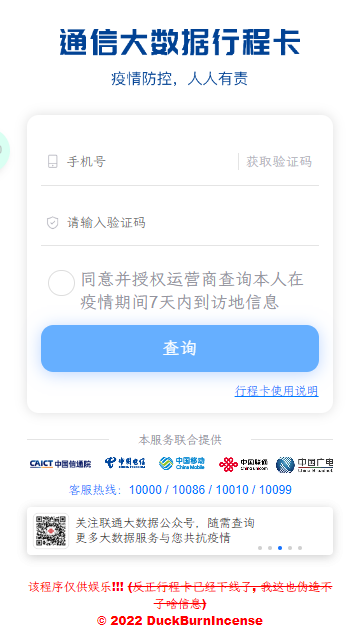
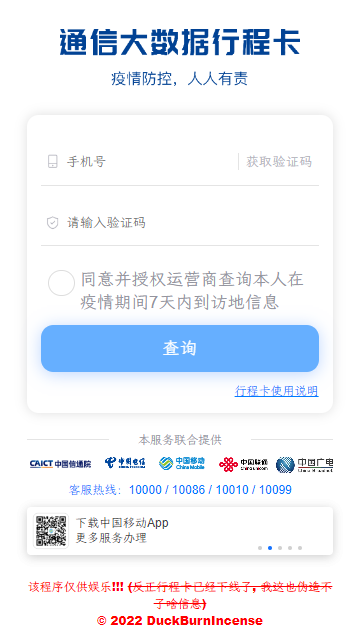
修改错字
- `途径` 更正为 `途径`
- 更新README的图片

Changed region(s): [[0.2139, 0.8125, 0.7028, 0.875], [0.0917, 0.7812, 0.1833, 0.875], [0.0, 0.1875, 0.0306, 0.2812]]

diff --git a/src/views/Result.vue b/src/views/Result.vue
@@ -10,7 +10,7 @@
 				<p class="update-time">更新于：{{formattedUpdateTime}}</p>
 				<img class="green-card" src="@/assets/gif_green.gif" alt="green">
 				<p class="desc" @click="changePlaces">
-					<span class="title">您于前7天内到达或途径：</span>
+					<span class="title">您于前7天内到达或途经：</span>
 					<span class="places">{{places}}</span>
 				</p>
 			</div>
